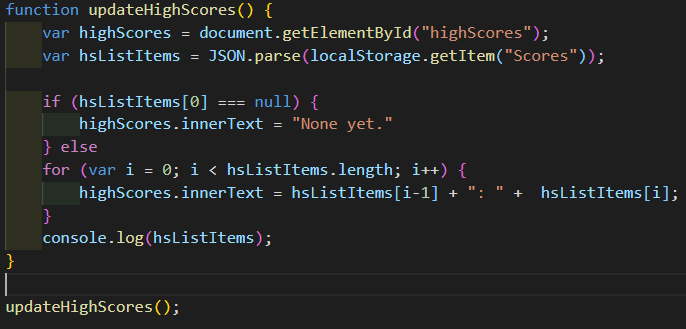
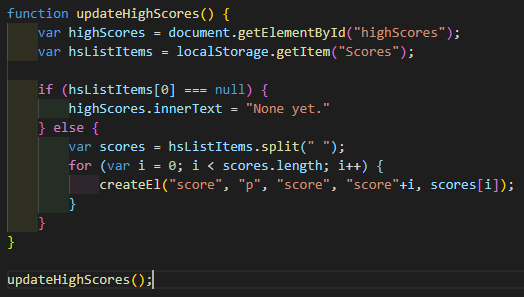
updated readme with simplified functions

diff --git a/4/Assets/js/scripts.js b/4/Assets/js/scripts.js
@@ -205,7 +205,6 @@ function winner() {
     }
     //write score to localStorage
     highScore.push(highScoreName, userScore);
-
     //if empty
     emptyStorage();
     function emptyStorage() {
@@ -217,11 +216,8 @@ function winner() {
         var existingScores = localStorage.getItem("Scores");
         existingScores.replace(/[^a-zA-Z ]/g, "");
         existingScores += ' ' + highScore;
-        localStorage.setItem("Scores", existingScores);
-        
+        localStorage.setItem("Scores", existingScores); 
         }
-    
-    
     } 
     //try again option
     tryAgain();

diff --git a/4/Assets/js/highscores.js b/4/Assets/js/highscores.js
@@ -19,9 +19,6 @@ function updateHighScores() {
             createEl("score", "p", "score", "score"+i, scores[i]);
         }
     }
-    // for (var i = 0; i < hsListItems.length; i++) {
-    //     highScores.innerText = hsListItems[i-1] + ": " +  hsListItems[i];
-    // }
 }
 
 updateHighScores();

diff --git a/4/README.md b/4/README.md
@@ -9,26 +9,29 @@
 3. Element Removers  
 ![](./Assets/Images/readme/removeelements.png)
 
-4. Start Quiz  
+4. Wrong Answer Clicked  
+![](./Assets/Images/readme/wronganswer.png)
+
+5. Start Quiz  
 ![](./Assets/Images/readme/startquiz.png)
 
-5. Start Timer  
+6. Start Timer  
 ![](./Assets/Images/readme/starttimer.png)
 
-6. Run Questions  
+7. Run Questions  
 ![](./Assets/Images/readme/questionhandler.png)
 
-7. Final Question  
+8. Final Question  
 ![](./Assets/Images/readme/finalquestion.png)
 
-8. Game Over  
+9. Game Over  
 ![](./Assets/Images/readme/gameover.png)
 
-9. Winner  
+10. Winner  
 ![](./Assets/Images/readme/winner.png)
 
-10. Try Again  
+11. Try Again  
 ![](./Assets/Images/readme/tryagain.png)
 
-11. High Scores Updater  
+12. High Scores Updater  
 ![](./Assets/Images/readme/highscores-script.png)
